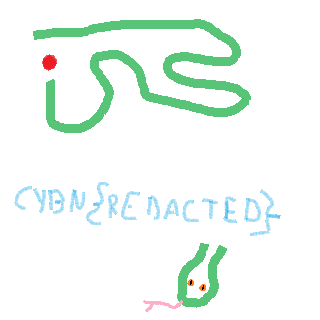
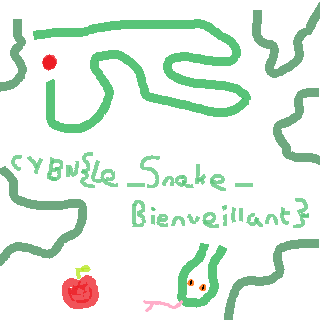
multiples fixes

diff --git a/Stegano/Serpent/src/yaslsb.py b/Stegano/Serpent/src/yaslsb.py
@@ -648,6 +648,7 @@ def run(args):
 
         if args.direction == 'diagonal':
             size = img.width
+            max_size = size // 8
             if len(to_embed) > size:
                 parser.error(f'Your text not should exceed {size // 8} for that image in diagonal.')
         elif args.direction == 'spiral':
@@ -663,6 +664,7 @@ def run(args):
         elif len(to_embed) > img.width * img.height:
             parser.error('Not enough space to embed data.')
 
+        log(f'[+] Embedding data fill: {len(to_embed) / max_size * 100:.2f}%')
         log('[+] Embedding payload into image', args.verbose, 1)
         embedded = embed_image(args.image, to_embed, args.direction, channels=args.colors)
         embedded.save(args.output, 'PNG')
